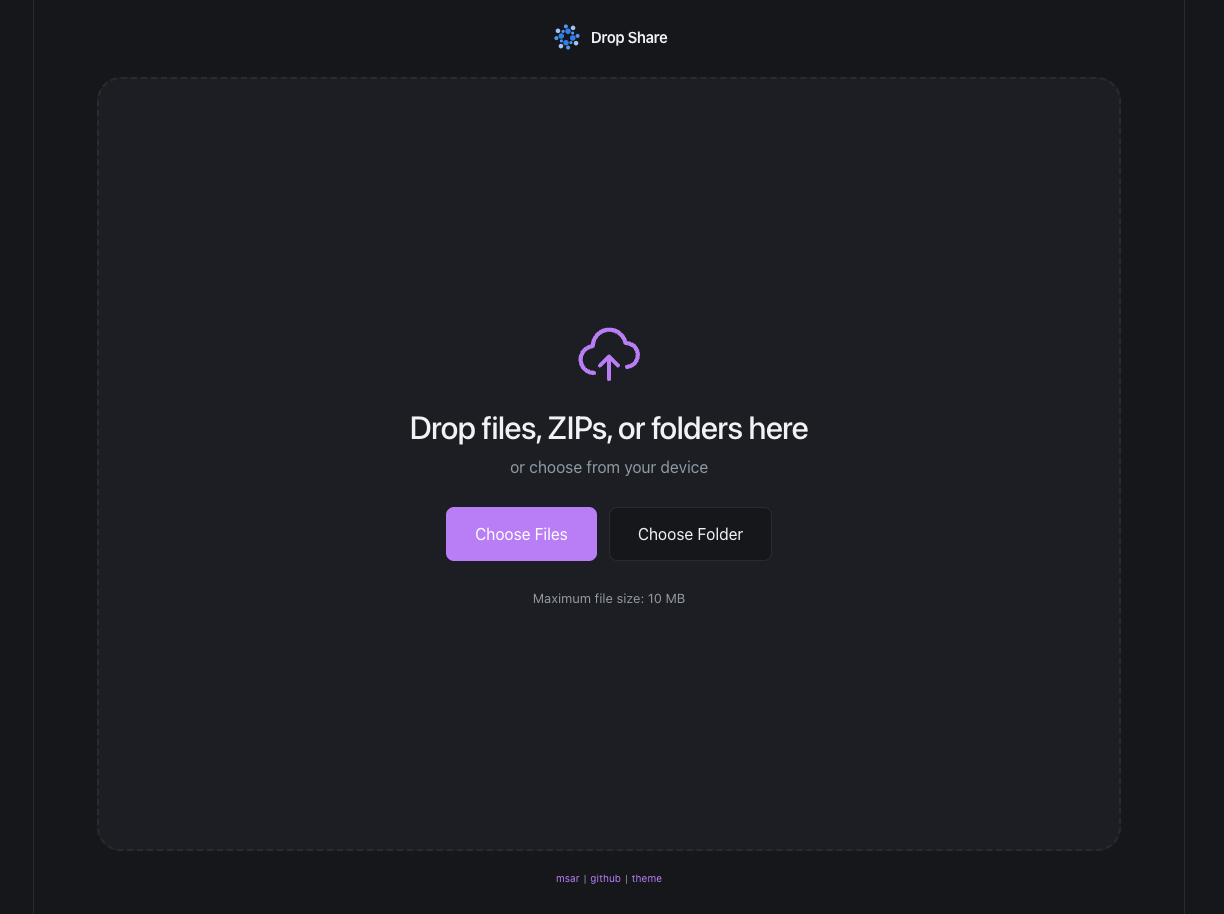
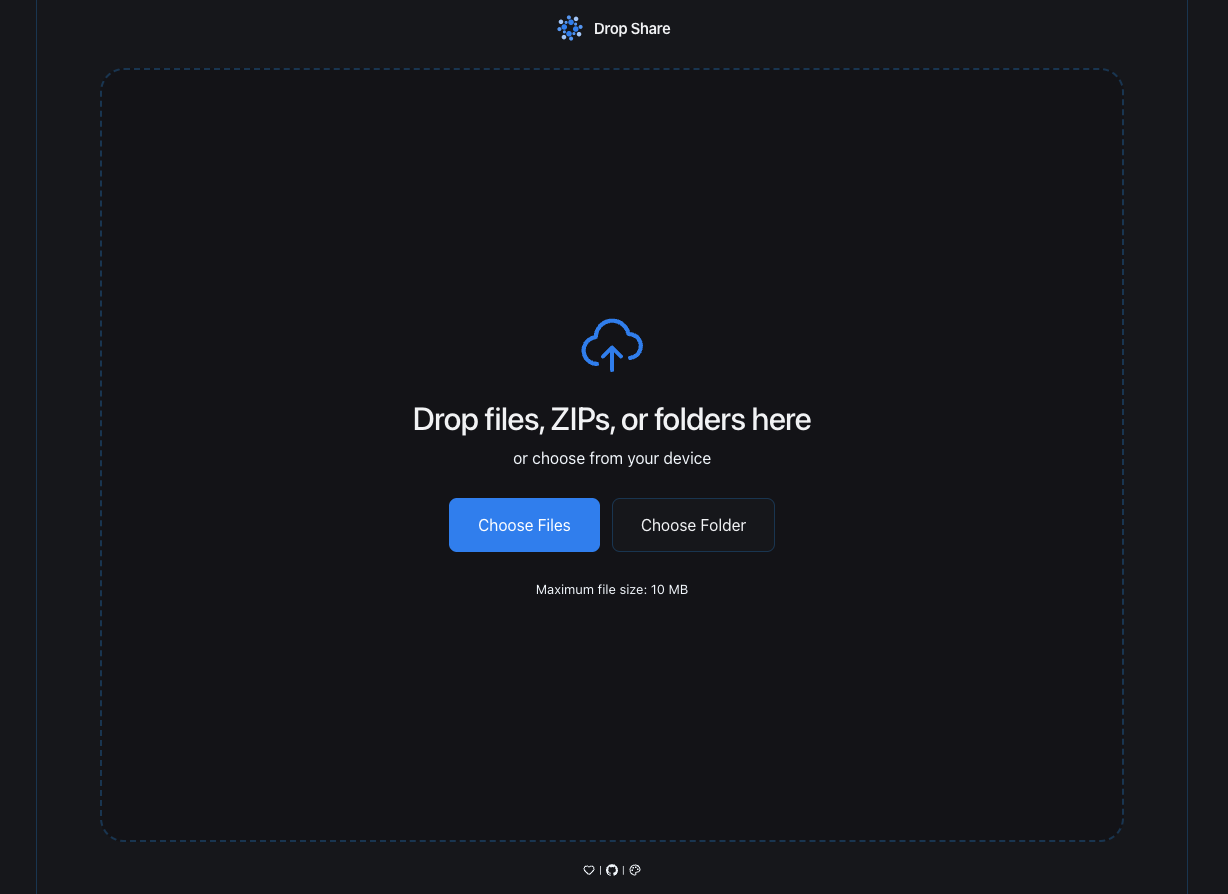
fix: include delayedAction in dependencies for useCallback in Header component

diff --git a/src/components/Header.tsx b/src/components/Header.tsx
@@ -124,9 +124,10 @@ export function Header({
             } finally {
                 setUploading(false);
                 if (uploadInputRef.current) uploadInputRef.current.value = "";
+                delayedAction();
             }
         },
-        [currentId, onError, onReload, subPath, token],
+        [currentId, onError, onReload, delayedAction, subPath, token],
     );
 
     const onLock = useCallback(async () => {
@@ -145,7 +146,9 @@ export function Header({
             onLocked(newToken);
         } catch (error) {
             onError(
-                error instanceof Error ? error.message : "Failed to lock artifact.",
+                error instanceof Error
+                    ? error.message
+                    : "Failed to lock artifact.",
             );
         } finally {
             setLocking(false);
@@ -279,13 +282,14 @@ export function Header({
                                         type="button"
                                         disabled={uploading}
                                         onClick={() => {
-                                            delayedAction();
                                             uploadInputRef.current?.click();
                                         }}
                                         className="flex h-8 w-full items-center gap-2 rounded-md px-2.5 text-left text-xs text-heading hover:bg-brand-soft disabled:opacity-60"
                                     >
                                         <UploadIcon className="size-3.5 shrink-0" />
-                                        {uploading ? "Uploading…" : "Upload more"}
+                                        {uploading
+                                            ? "Uploading…"
+                                            : "Upload more"}
                                     </button>
                                 )}
                                 {!locked && (
